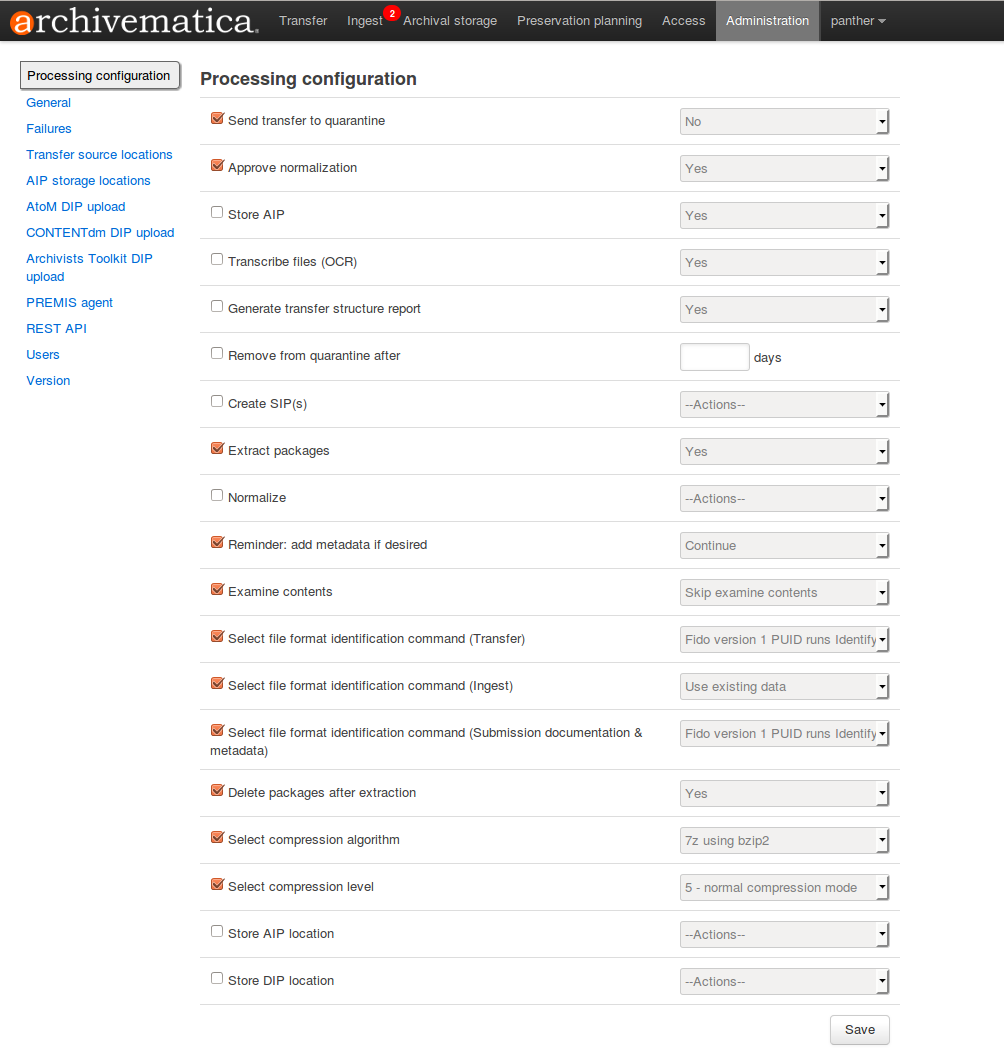
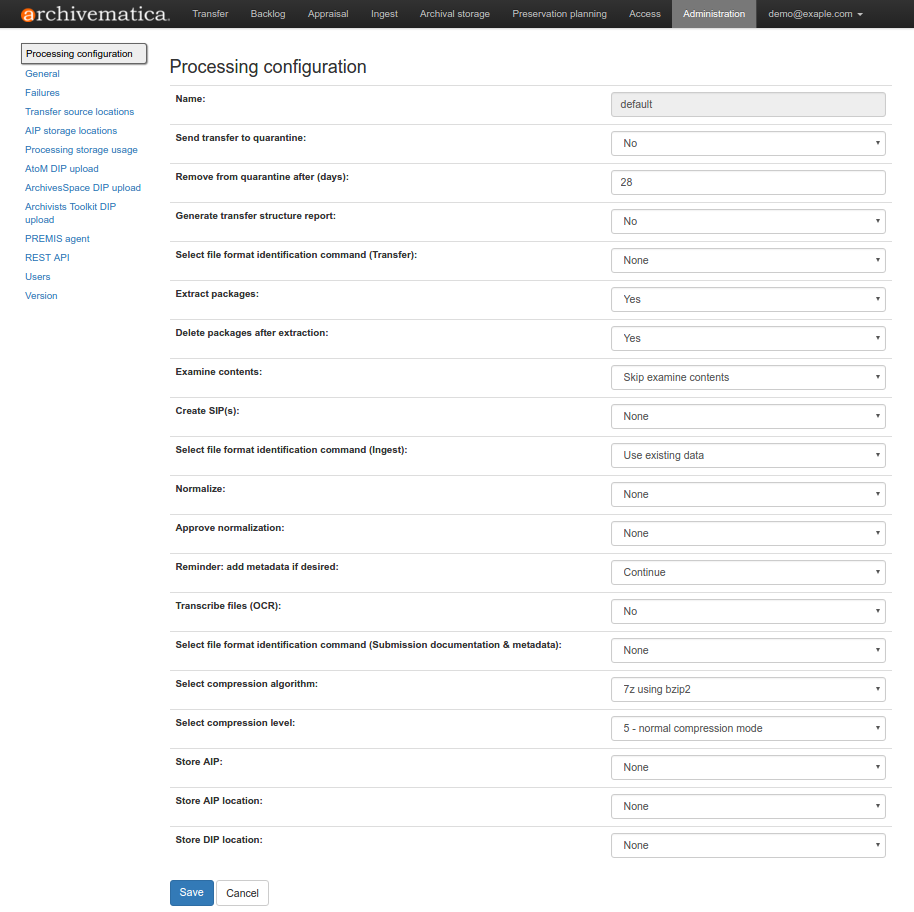
Updated processing configuration page and took a new screenshot.

Changed region(s): [[0.0, 0.0, 1.0, 1.0], [0.6433, 0.0921, 0.9497, 1.0]]

diff --git a/user-manual/administer/dashboard-admin.rst b/user-manual/administer/dashboard-admin.rst
@@ -47,73 +47,100 @@ Processing configuration
    :width: 60%
    :alt: Processing configuration screen in the dashboard
 
-The processing configuration administration page of the dashboard provides you
-with an easy form to configure the default 'processingMCP.xml' that's added to
-a SIP or transfer if it doesn't already contain one. When you change the
-options using the web interface the necessary XML will be written behind the
-scenes.
+The processing configuration administration page of the dashboard allows users
+to configure the job decision points presented by Archivematica during transfer and
+ingest. This screen provides you with an easy form to configure the default
+processingMCP.xml that governs these decisions. When you change the options using
+the web interface the necessary XML will be written behind the scenes.
 
-* For the approval (yes/no) steps, the user ticks the box on the left-hand side
-  to make a choice. If the box is not ticked, the approval step will appear in
-  the dashboard.
+Multiple processing configurations can be created using the *Add* button on the
+Processing Configuration screen. Often, users create multiple configurations for
+different types of content - one for audio-visual material, one for images, one
+for textual records, etc. To edit an existing processing configuration file, click
+on the *Edit* button to the right of the processing configuration name.
 
-* For the other steps, if no actions are selected the choices appear in the
-  dashboard
+In order to edit any of the selections, select a choice from the drop-down menu
+to the right of the job name. Once you've made all of your selections, save the
+processing configuration.
 
-Specific processing configurations available on this page are:
+Processing configuration fields
+===============================
 
-#. Select whether or not to send transfers to quarantine (yes/no) and
-   decide how long you'd like them to stay there (below).
+Many jobs in the Archivematica transfer and ingest tabs have configurable decision
+points. Automating these decisions can make the transfer and ingest process substantially
+quicker, especially if you find yourself selecting the same decisions over and over.
+Below is a list of the processing configuration form fields with a short description
+about how they work.
 
-#. Approve normalization, sending the AIP to storage, and uploading the
-   DIP without interrupting the workflow in the dashboard.
+.. note::
 
-#. Store the AIP without interripting the workflow in the dashboard.
+  Selecting *None* means that Archivematica will prompt you to make the decision
+  as the transfer/ingest is being processed.
 
-#. Select whether or not Archivematica should transcribe files.
+#. **Name**: The name of the processingMCP.xml file that you are editing.
 
-#. Select whether or not Archivematica should generate a transfer structure
-   report (see :ref:`Process the transfer <process-transfer>`)
+#. **Send transfer to quarantine**: Select whether or not to send transfers to
+   quarantine.
 
-#. Select if Archivematica should create one SIP from the transfer and
+#. **Remove from quarantine after (days)**: Indicate how long transfers should
+   remain in quarantine. Once they are removed from quarantine, they will be
+   available for continued processing. Note that this field will not be invoked
+   unless the *Send transfer to quarantine* field is set to "Yes".
+
+#. **Generate transfer structure report**: Select whether or not Archivematica
+   should generate a directory tree of the original transfer and place it as a
+   text file in the AIP.
+
+#. **Select file format identification command (Transfer)**: Select the file format
+   identification tool to be used on file format identification jobs in the transfer tab.
+
+#. **Extract packages**: Select whether or not Archivematica should extract any packages
+   included in the transfer (i.e. .zip files).
+
+#. **Delete packages after extraction**: Select whether packages should be deleted
+   after extraction. Note that this field will not be invoked unless the *Extract packages*
+   field is set to "Yes".
+
+#. **Examine contents**: Select whether or not to run Bulk Extractor to generate
+   content reports to identify personally identifying information (PII).
+
+#. **Create SIP(s)**: Select if Archivematica should create one SIP from the transfer and
    continue processing or send the transfer to backlog.
 
-#. Select whether to extract packages as well as whether to keep and/or
-   delete the extracted objects and/or the package itself.
+#. **Select file format identification comment (Ingest)**: Select the file format
+   identification tool to be used on file format identification jobs in the ingest tab.
 
-#. Select Normalization options (see :ref:`Normalize <normalize>`).
+#. **Normalize**: Select Normalization options (see :ref:`Normalize <normalize>`).
 
-#. Select whether or not Archivematica should remind you to add metadata at the
-   appropriate point during ingest.
+#. **Approve normalization**: Select whether or not to automatically approve normalization.
 
-#. Select whether or not to Examine contents.
+#. **Reminder: add metadata if desired**: Select whether or not Archivematica should
+   remind the user to add metadata to the SIP using the GUI. Note: this job
+   occurs at the last moment that it is possible to add metadata to the SIP; once the
+   ingest proceeds past this point, it is no longer possible to add metadata to the SIP.
 
-#. Select which format identification tool and command to run in both/either
-   transfer and/or ingest to base your normalization upon.
+#. **Transcribe files (OCR)**: Select whether or not to transcribe the contents of
+   the SIP (see :ref:`Transcribe SIP contents <transcribe-contents>`)
 
-#. Select which format identification tool and command to run for Submission
-   documentation and metadata.
+#. **Select file format identification command (Submission documentation & metadata)**: Select
+   the file format identification tool to be used on submission documentation and
+   metadata files.
 
-#. Select whether packages should be deleted after extraction.
+#. **Select compression algorithm**: Select which tool you would like to use to
+   compress your AIP.
 
-#. Select between 7z using lzma and 7zip using bzip or parallel bzip2 algorithms
-   for AIP compression.
+#. **Select compression level**: Select how compressed you would like your AIP to
+   be. Selecting a higher compression level means that the resulting AIP is smaller,
+   but compression also takes longer. Lower compression levels mean quicker compression,
+   but a larger AIP.
 
-#. Select compression levels:
+#. **Store AIP**: Store the AIP without interrupting the workflow in the dashboard.
 
-    * 1 - fastest mode
+#. **Store AIP location**: Select one archival storage location where you will
+   consistently send your AIPs.
 
-    * 3 - fast compression mode
-
-    * 5 - normal compression mode
-
-    * 7 - maximum compression
-
-    * 9 - ultra compression
-
-#. Select one archival storage location where you will consistently send your
-   AIPs and DIPs (if you are storing DIPs rather than sending them immediately
-   to an access system.)
+#. **Store DIP location**: Select one archival storage location where you will
+   consistently send your DIPs, if you wish to store them.
 
 .. _dashboard-general:
 
